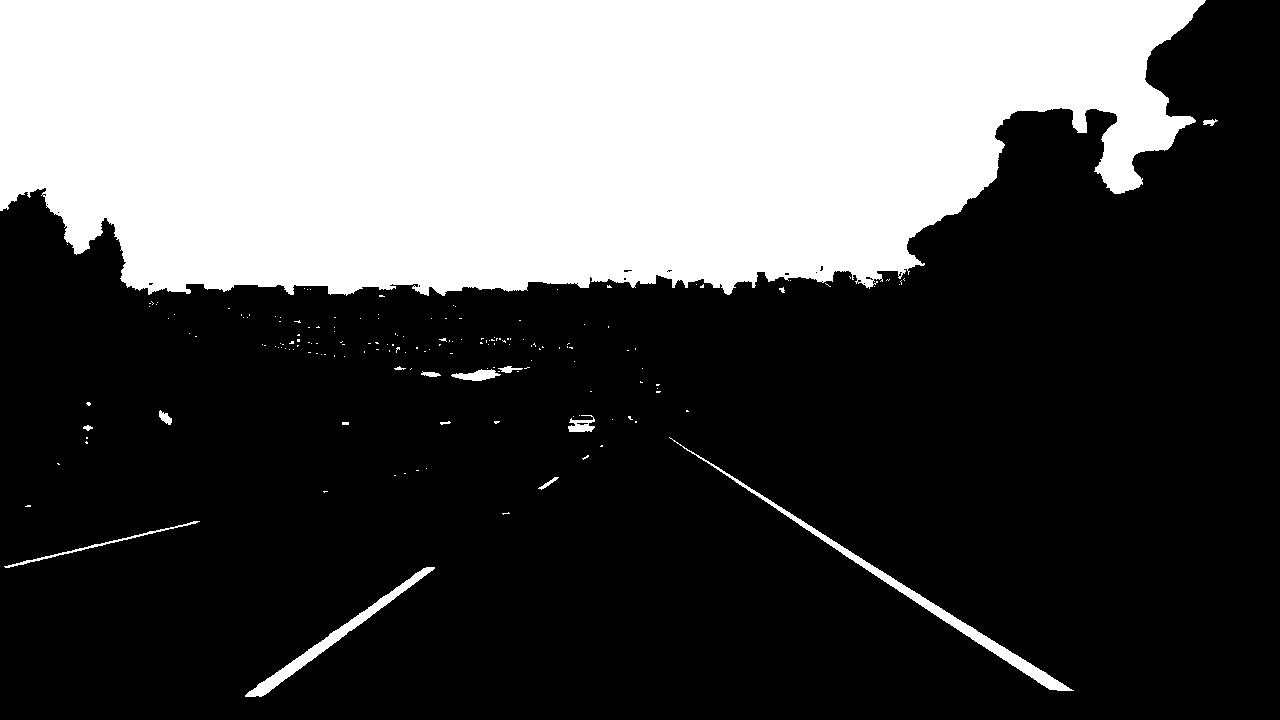
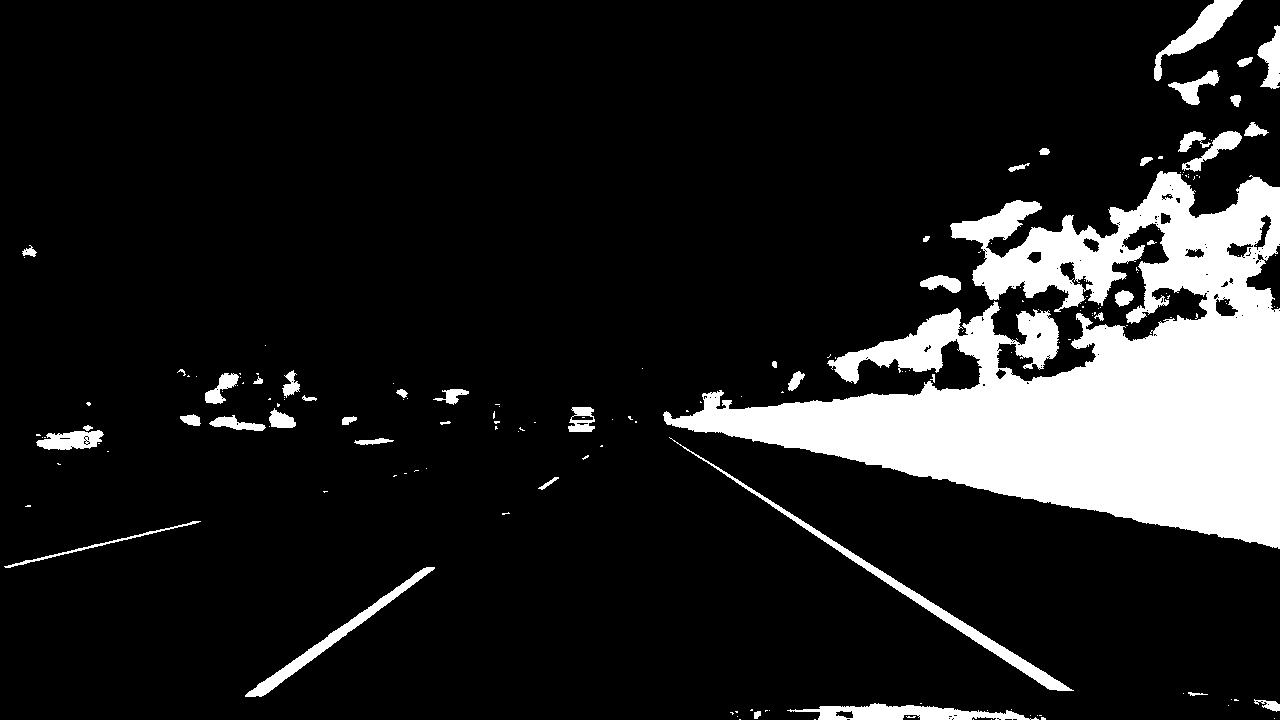
fixes test image thresholding

diff --git a/advanced_lane_finding.py b/advanced_lane_finding.py
@@ -106,7 +106,7 @@ def threshold(image):
 thresholded_images = []
 	
 for image in undistorted_images:
-	thresholded_images.append(threshold(image))
+	thresholded_images.append(threshold(cv2.cvtColor(image, cv2.COLOR_BGR2RGB)))
 
 # save the thresholded test images
 for index, image in enumerate(thresholded_images):
@@ -127,7 +127,7 @@ def perspective_transform(img, src_points, dst_points):
     transformed = cv2.warpPerspective(img, M, img_size, flags=cv2.INTER_LINEAR)
     return transformed
 
-'''
+
 transformed_images = []
 
 # apply perspective transform to thresholded test images
@@ -137,7 +137,7 @@ for image in thresholded_images:
 # save 'warped' images
 for i in range(len((test_image_names))):
     cv2.imwrite('./warped/' + test_image_names[i], transformed_images[i])
-'''
+
 
 margin = 100 # How much to slide left and right for searching
 window_width = 40
@@ -337,13 +337,13 @@ video_processor_1, video_processor_2, video_processor_3 = MyVideoProcessor(), My
 
 from moviepy.editor import VideoFileClip
 
-
+'''
 project_video_output = './output_images/project_video_output.mp4'
 clip1 = VideoFileClip('project_video.mp4')
 pv_clip = clip1.fl_image(video_processor_1.pipeline_function)
 pv_clip.write_videofile(project_video_output, audio=False)
 
-'''
+
 project_video_output = './output_images/challenge_video_output.mp4'
 clip1 = VideoFileClip('challenge_video.mp4')
 pv_clip = clip1.fl_image(video_processor_2.pipeline_function)
